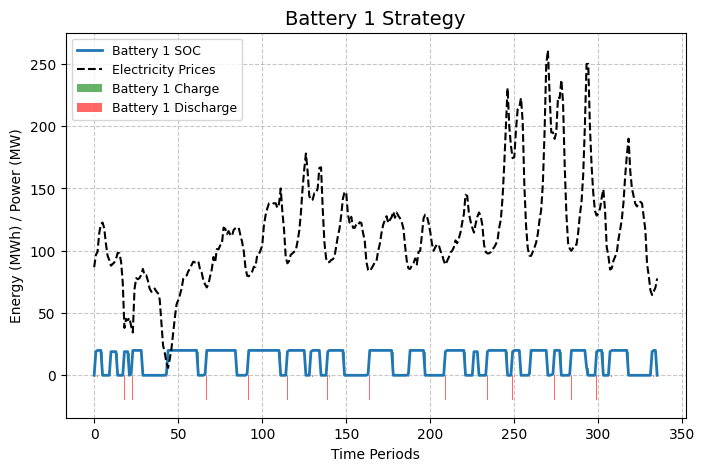
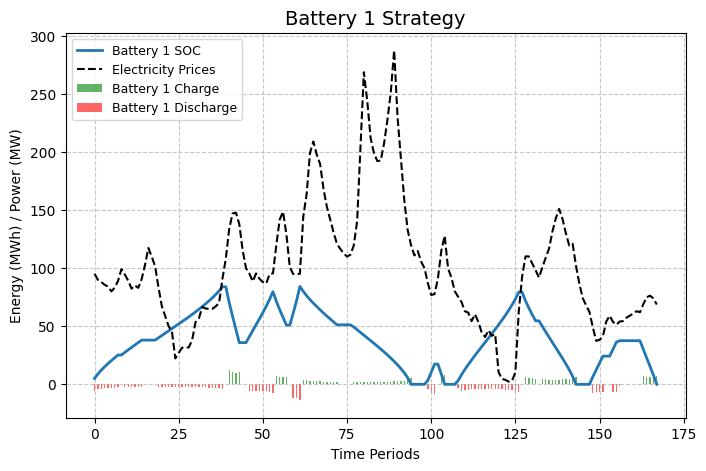
Better example for battery arbitrage
Including plotting

diff --git a/solve_battery_arbitrage_example.py b/solve_battery_arbitrage_example.py
@@ -1,53 +1,67 @@
-# Import the necessary classes from optimization/solver_classes
-from optimization.solver_classes import GraphProblemClass, ConnectingNode, Producer, Consumer, Battery, TransmissionLine, PowerExchange
+import time
+import numpy as np
+from lib_descriptive import plot_battery_arbitrage_multiple
+from optimization.solver_classes import GraphProblemClass, Battery, PowerExchange
 from dataflow_manager.dataflow_classes import DataProcessingNode, DataFetchingFromFileNode
 
 if __name__ == "__main__":
-    # Create a GraphProblemClass instance
+    start_time = time.time()
     problemClass = GraphProblemClass()
 
-    # Create Producer, Consumer, and Battery instances
-    # Producer and Consumer instances are not needed for this problem
-    # producer = Producer(problemClass, 5, 2)
-    # consumer = Consumer(problemClass)
-    battery1 = Battery(problemClass, 5, 5, 10)
-    battery2 = Battery(problemClass, 5, 5, 10)
-    battery3 = Battery(problemClass, 5, 5, 10)
+    num_batteries = 6
 
-    # Create TransmissionLine and PowerExchange instances
-    transmission_line = TransmissionLine(problemClass, 5, 0)
-    power_exchange = PowerExchange(problemClass, 10, 5)
+    battery1 = Battery(problemClass, 50, 50, 100)
+    battery2 = Battery(problemClass, 100, 100, 200)
+    battery3 = Battery(problemClass, 150, 150, 300)
+    battery4 = Battery(problemClass, 505, 502, 1007)
+    battery5 = Battery(problemClass, 100, 100, 2009)
+    battery6 = Battery(problemClass, 150, 150, 3000)
+    power_exchange = PowerExchange(problemClass, 50, 50)
 
-    # producer - transmission_line
-    # transmission_line - consumer
-    # producer - power_exchange
-    # battery - consumer
-
+    # Connect the nodes
     power_exchange - battery1
-    # power_exchange - battery2
-    # power_exchange - battery3
-
-    # Set the time length for the optimization problem
-    problemClass.setTimeLen(5)
+    power_exchange - battery2
+    power_exchange - battery3
+    power_exchange - battery4
+    power_exchange - battery5
+    power_exchange - battery6
 
     dfs = {}
 
     # Get the prices for the power exchange using the DataNodes
-    prices_node = DataFetchingFromFileNode("prices", "prices.csv")
+    prices_node = DataFetchingFromFileNode("prices", "data/future_prices.csv")
     dfs = prices_node.execute(dfs)
 
     # Process the prices data
     prices_processing_node = DataProcessingNode("prices_processed", dfs["prices"])
-    prices_processing_node.process = lambda df: (df['price'] * 2)
+    prices_processing_node.process = lambda df: (df.drop(columns=["HourUTC", "PriceArea", "SpotPriceDKK"])).sort_values(by="HourDK")
     dfs = prices_processing_node.execute(dfs)
 
-    # Set the prices for the power exchange
-    power_exchange.setPrices(dfs["prices_processed"].tolist())
+    prices = dfs["prices_processed"]["SpotPriceEUR"].tolist()
 
-    # Set the consumption schedule for the consumer
-    # consumer.setConsumptionSchedule([5, 2, 8, 10, 8])
+    # Set the prices for the power exchange
+    power_exchange.setPrices(prices)
+
+    # Set the time length for the optimization problem
+    problemClass.setTimeLen(dfs["prices_processed"].shape[0])
 
     # Solve the optimization problem
     problemClass.solve()
 
-    # problemClass.printResults()
+    end_time = time.time()  # End the timer
+    print(f"Execution time: {end_time - start_time:.2f} seconds")  # Print the elapsed time
+
+    allVariables = problemClass.getAllVariables()
+
+    # For each battery, get the state of charge and the power flow and store it as ndimensioal array
+    soc = []
+    power_flow = []
+    for i in range(num_batteries):
+        soc.append(allVariables[i]['Battery']['SOC'])
+        power_flow.append(allVariables[i]['Battery']['powerFlow'])
+
+    soc = np.array(soc)
+    power_flow = np.array(power_flow)
+    plot_battery_arbitrage_multiple(prices, soc, power_flow, num_batteries)
+
+    problemClass.printResults()

diff --git a/lib_descriptive.py b/lib_descriptive.py
@@ -125,9 +125,9 @@ def plot_battery_arbitrage_multiple(prices, soc, schedule, num_batteries, output
         "Prices (EUR/MWh)": prices,
     }
     for i in range(num_batteries):
-        data[f"Battery {i+1} SOC (MWh)"] = soc[:, i]
-        data[f"Battery {i+1} Charge (MW)"] = np.maximum(0, schedule[:, i])  # Positive values are charging
-        data[f"Battery {i+1} Discharge (MW)"] = -np.minimum(0, schedule[:, i])  # Negative values are discharging
+        data[f"Battery {i+1} SOC (MWh)"] = soc[i]
+        data[f"Battery {i+1} Charge (MW)"] = np.maximum(0, schedule[i])  # Positive values are charging
+        data[f"Battery {i+1} Discharge (MW)"] = -np.minimum(0, schedule[i])  # Negative values are discharging
 
     df = pd.DataFrame(data, index=time_index)
 
@@ -172,9 +172,9 @@ def plot_battery_arbitrage_multiple(prices, soc, schedule, num_batteries, output
     ax_summary.plot(df.index, df["Prices (EUR/MWh)"], label="Electricity Prices", color="black", linestyle="--", linewidth=1.5)
 
     # Aggregate SOC, charging, and discharging for all batteries
-    total_soc = soc.sum(axis=1)
-    total_charge = np.maximum(0, schedule).sum(axis=1)
-    total_discharge = -np.minimum(0, schedule).sum(axis=1)
+    total_soc = soc.sum(axis=0)
+    total_charge = np.maximum(0, schedule).sum(axis=0)
+    total_discharge = -np.minimum(0, schedule).sum(axis=0)
 
     ax_summary.plot(df.index, total_soc, label="Total SOC (MWh)", linewidth=2)
     ax_summary.bar(df.index, total_charge, width=0.4, label="Total Charge (MW)", color="green", alpha=0.6)

diff --git a/optimization/solver_classes.py b/optimization/solver_classes.py
@@ -36,6 +36,12 @@ class GraphProblemClass():
         for node in self.nodes:
             print(node.getVariables())
 
+    def getAllVariables(self):
+        variables = []
+        for node in self.nodes:
+            variables.append(node.getVariables())
+        return variables
+
     def setTimeLen(self, time_len):
         self.time_len = time_len
         for node in self.nodes:
@@ -285,7 +291,7 @@ class Battery(Prosumer):
         return self.discharge[t] - self.charge[t]
 
     def getCost(self):
-        0
+        return 0
 
     def getVariables(self):
         return {self.name : {"SOC" : self.SOC.value, "powerFlow":  self.discharge.value - self.charge.value}}
